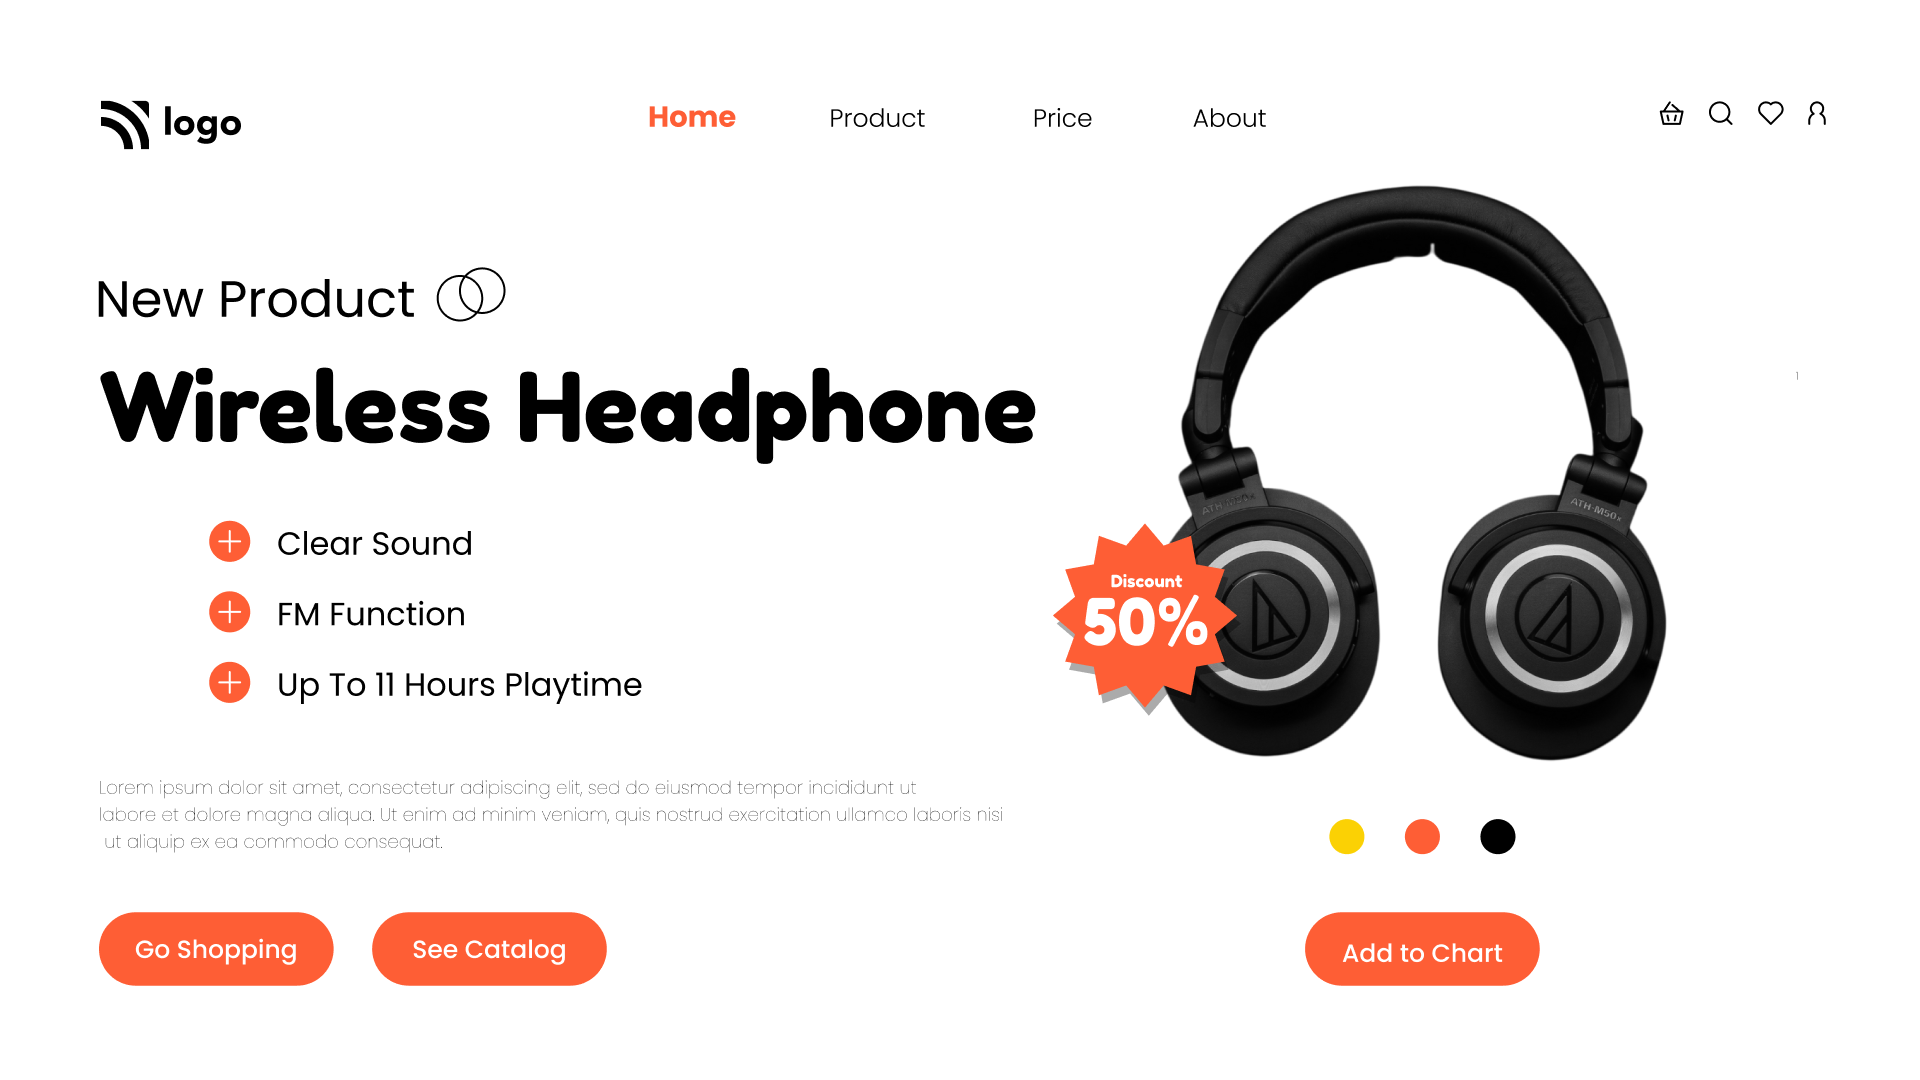
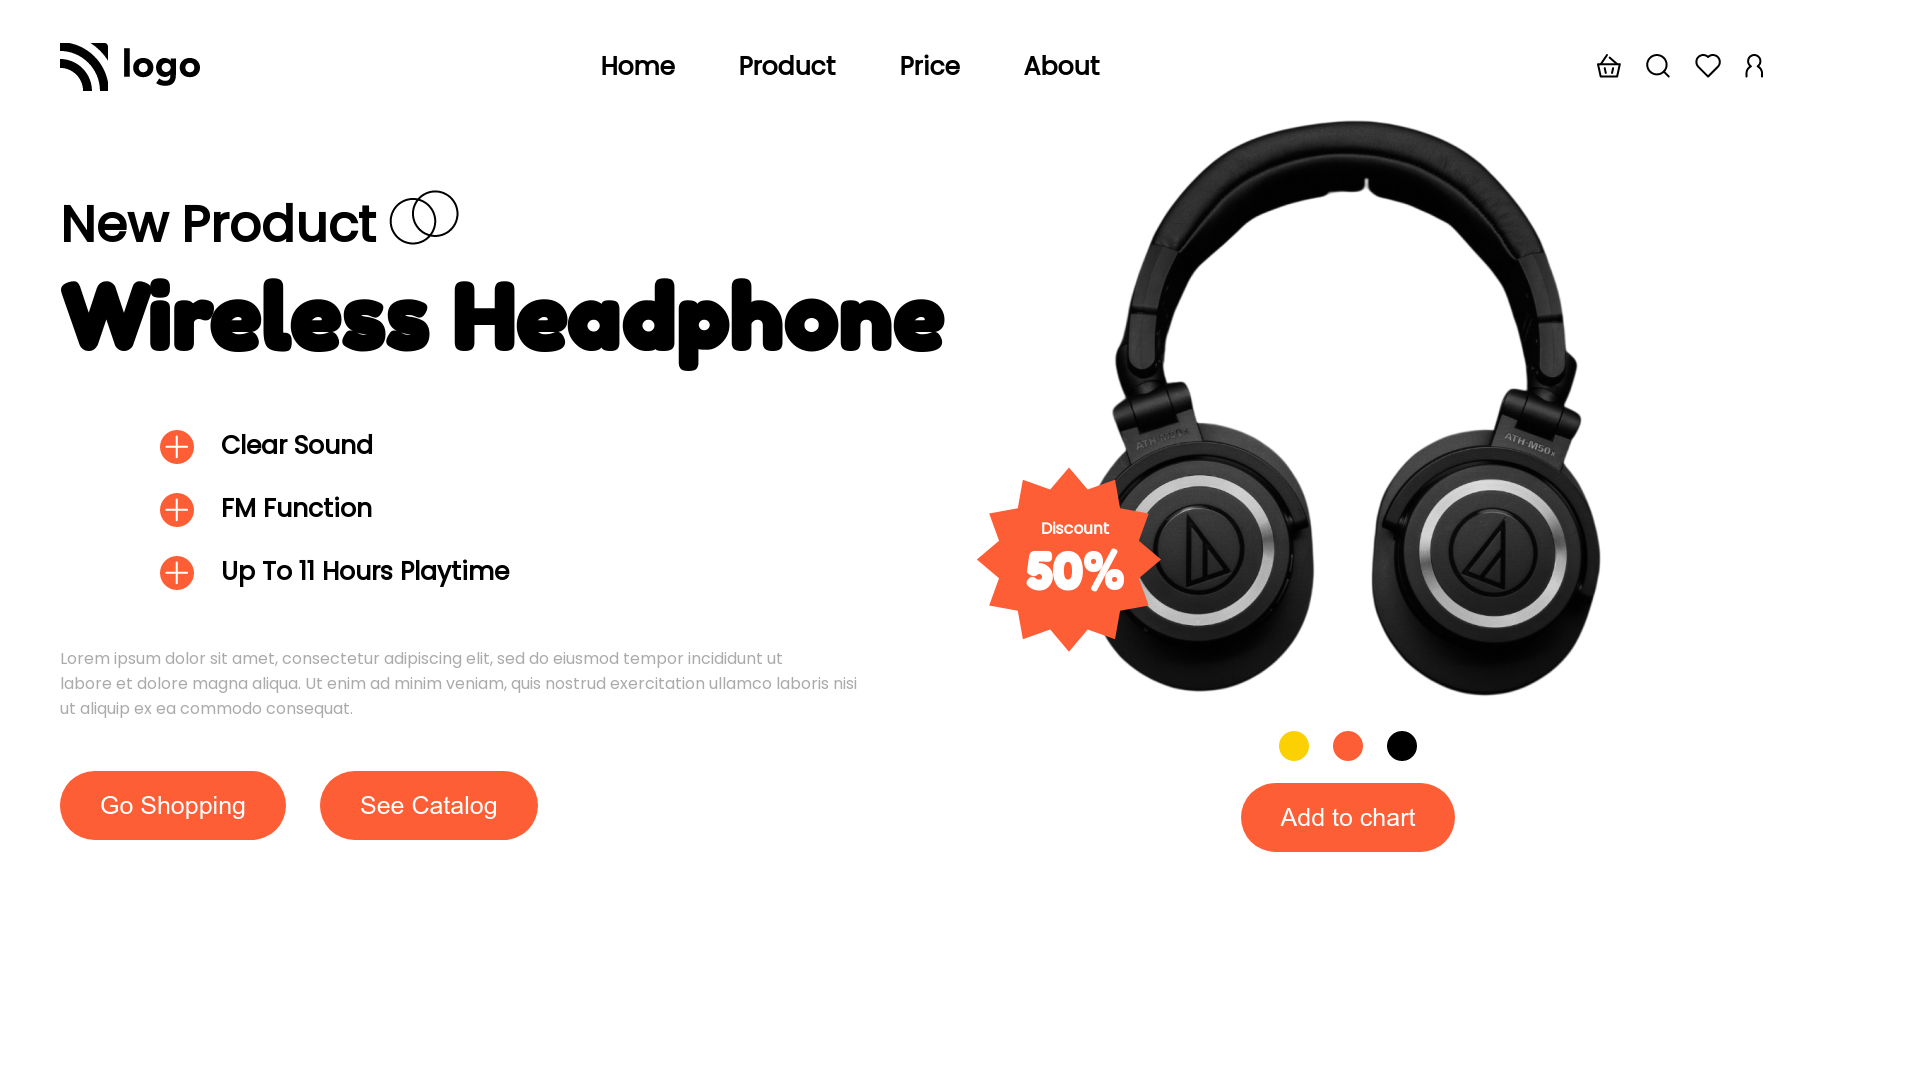
Added Responsiveness

diff --git a/css/index.css b/css/index.css
@@ -13,7 +13,9 @@ nav {
     flex-direction: row;
     justify-content: space-between;
     align-items: center;
-    padding: 40px 60px 20px 60px;
+    max-width: 1600px;
+    margin: 0 auto;
+    padding: 40px 25px;
 }
 
 .nav-items h5{
@@ -28,14 +30,20 @@ nav {
 }
 
 .intro-section {
-    display: grid;
-    grid-template-columns: 1.5fr 1fr;
-    margin-right: 250px;
-    padding-left: 60px;
+    display: flex;
+    justify-content: space-between;
+    grid-template-columns: 1.25fr 1fr;
+    max-width: 1600px;
+    margin: 0 auto;
+    padding: 0 15px;
 }
 
 .left-section{
     margin-top: 75px;
+}
+
+.left-section p {
+    margin-right: 200px;
 }
 
 .left-section h3 {
@@ -75,7 +83,22 @@ nav {
 
 .action-btns {
     padding-top: 25px;
+    max-width: 1600px;
+    margin: 0 auto;
+    display: flex;
+    justify-content: flex-start;
 }
+
+.action-btns div:first-child {
+    margin-right: 30px;
+}
+
+.action-btns div:nth-child(3) {
+    width: 600px;
+    text-align: center;
+    margin-left: auto;
+}
+
 
 .action-btn {
     background-color: #fe5e35;
@@ -84,34 +107,45 @@ nav {
     font-size: 25px;
     color: #FFFFFF;
     border-radius: 50px;
-    
 }
 
-.action-btns .action-btn {
-    margin-right: 30px;
-}
 
 .right-section {
-    position: relative;
     text-align: center;
 }
 
-.headphone-div img:first-child {
-    position: absolute;
-    left: -50px;
-    bottom: 200px;
+.headphone-div {
+    position: relative;
+}
+.headphones-img {
+    width: 600px;
 }
 
 .discount-content {
     position: absolute;
-    left: 0px;
-    bottom: 250px;
-    color: #FFFFFF;
+    bottom: 80px;
+    left: -60px;
+    color: #ffffff;
 }
 
-.discount-content h1 {
-    font-size: 50px;
+.discount-img {
+    width: 180px;
+}
+
+.discount {
+    position: absolute;
+    bottom: 50px;
+    left: 40px;
+}
+
+.discount h1{
     font-family: 'Fredoka One', cursive;
+    font-size: 60px;
+}
+
+.discount h1{
+    font-family: 'Fredoka One', cursive;
+    font-size: 60px;
 }
 
 .dot {
@@ -135,4 +169,97 @@ nav {
 
 .right-section .action-btn {
     margin-top: 15px;
+}
+
+@media only screen and (max-width: 1200px) {
+    .nav-items {
+        display: none;
+    }
+    .intro-section {
+        flex-direction: column-reverse;
+    }
+    .headphone-div {
+        height: fit-content;
+        width: fit-content;
+        margin-left: auto;
+        margin-right: auto;
+    }
+    .left-section {
+        text-align: center;
+        margin-top: 20px;
+    }
+    .sub-headlines {
+        text-align: left;
+    }
+    
+    .action-btns div:nth-child(1) {
+        margin-right: 0;
+    }
+
+    .action-btns div:nth-child(3) {
+        width: fit-content;
+        margin-left: 0;
+    }
+    .action-btns {
+        justify-content: space-around;
+        align-items: center;
+        margin-bottom: 25px;
+    }
+    .left-section p {
+        margin-right: 0;
+    }
+    .sub-headlines {
+        padding-left: 0px;
+    }
+}
+
+@media only screen and (max-width: 768px) {
+    .headphones-img {
+        width: 300px;
+    }
+
+    .discount {
+        bottom: 30px;
+        left: 24px;
+    }
+
+    .discount-content {
+        bottom: 40px;
+        left: -30px;
+    }
+
+    .discount-img {
+        width: 90px;
+    }
+
+    .discount h4{
+        font-size: 10px;
+    }
+
+    .discount h1 {
+        font-size: 24px;
+    }
+
+    .left-section h1 {
+        font-size: 45px;
+    }
+
+    .left-section h3 {
+        font-size: 25px;
+    }
+    
+    .action-btn {
+        padding: 10px 20px;
+        font-size: 18px;
+        border-radius: 50px;
+        margin: 10px 0;
+    }
+
+    .action-btns {
+        flex-direction: column;
+    }
+    
+    .action-image {
+        display: none;
+    }
 }

diff --git a/index.html b/index.html
@@ -26,7 +26,7 @@
         <h5 class="nav-item">Price</h5>
         <h5 class="nav-item">About</h5>
       </div>
-      <img src="./images/actions.svg" alt="actions" />
+      <img class="action-image" src="./images/actions.svg" alt="actions" />
     </nav>
     <div class="intro-section">
       <div class="left-section">
@@ -47,29 +47,39 @@
           </h5>
         </div>
         <p class="text">
-          Lorem ipsum dolor sit amet, consectetur adipiscing elit, sed do eiusmod tempor incididunt ut <br/>
-          labore et dolore magna aliqua. Ut enim ad minim veniam, quis nostrud exercitation ullamco laboris nisi <br/>
+          Lorem ipsum dolor sit amet, consectetur adipiscing elit, sed do eiusmod tempor incididunt ut
+          labore et dolore magna aliqua. Ut enim ad minim veniam, quis nostrud exercitation ullamco laboris nisi
           ut aliquip ex ea commodo consequat.
         </p>
-        <div class="action-btns">
-          <button class="action-btn">Go Shopping</button>
-          <button class="action-btn">See Catalog</button>
-        </div>
       </div>
       <div class="right-section">
-        <div class="headphone-div">
-          <img  src="./images/discount.svg" alt="discount" class="discount" />
-          <div class="discount-content">
-            <h4>Discount</h4>
-            <h1>50%</h1>
+        <div>
+          <div class="headphone-div">
+            <img class="headphones-img" src="./images/headphones.jpg" alt="headphone" />
+            <div class="discount-content">
+              <img class="discount-img" src="./images/discount.svg" alt="discount" />
+              <div class="discount">
+                <h4>Discount</h4>
+                <h1>50%</h1>
+              </div>
+            </div>
           </div>
-          <img src="./images/headphones.jpg" alt="headphone" />
         </div>
         <div class="dots">
           <div class="dot yellow-dot"></div>
           <div class="dot tomato-dot"></div>
           <div class="dot black-dot"></div>
         </div>
+      </div>
+    </div>
+    <div class="action-btns">
+      <div>
+        <button class="action-btn">Go Shopping</button>
+      </div>
+      <div>
+        <button class="action-btn">See Catalog</button>
+      </div>
+      <div>
         <button class="action-btn">Add to chart</button>
       </div>
     </div>
